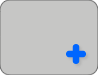
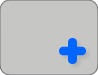
fixed borders in thumbnails and css fix

Changed region(s): [[0.5816, 0.5067, 0.8878, 0.8533]]

diff --git a/stylesheets/all/tags.css b/stylesheets/all/tags.css
@@ -159,22 +159,21 @@ ul.tagit li.tagit-choice input {
 }
 
 ul.tagit li.tagit-choice a.tagit-close {
-    color: #777777;
+    color: #fff;
     cursor: pointer;
     font-size: 12px;
     font-weight: bold;
     outline: medium none;
-    padding: 2px 0 2px 3px;
+    padding: -2px 0 2px 3px;
     text-decoration: none;
     position: absolute;
     display: block;
     top: 0;
     right: 3px;
-    text-shadow: 1px 1px 0 rgba(255, 255, 255, 0.7);
 }
 
 ul.tagit li.tagit-choice a.tagit-close:hover {
-    color: #535353;
+    color: #ff05dd;
 }
 
 ul.tagit input[type="text"] {

diff --git a/stylesheets/all/editor.css b/stylesheets/all/editor.css
@@ -376,7 +376,6 @@ img {
 }
 
 .templatethumb{
-	border: 1px solid transparent;
 	width: 100px;
 	height: 75px;
 	margin: 16px 11px 6px 16px;
